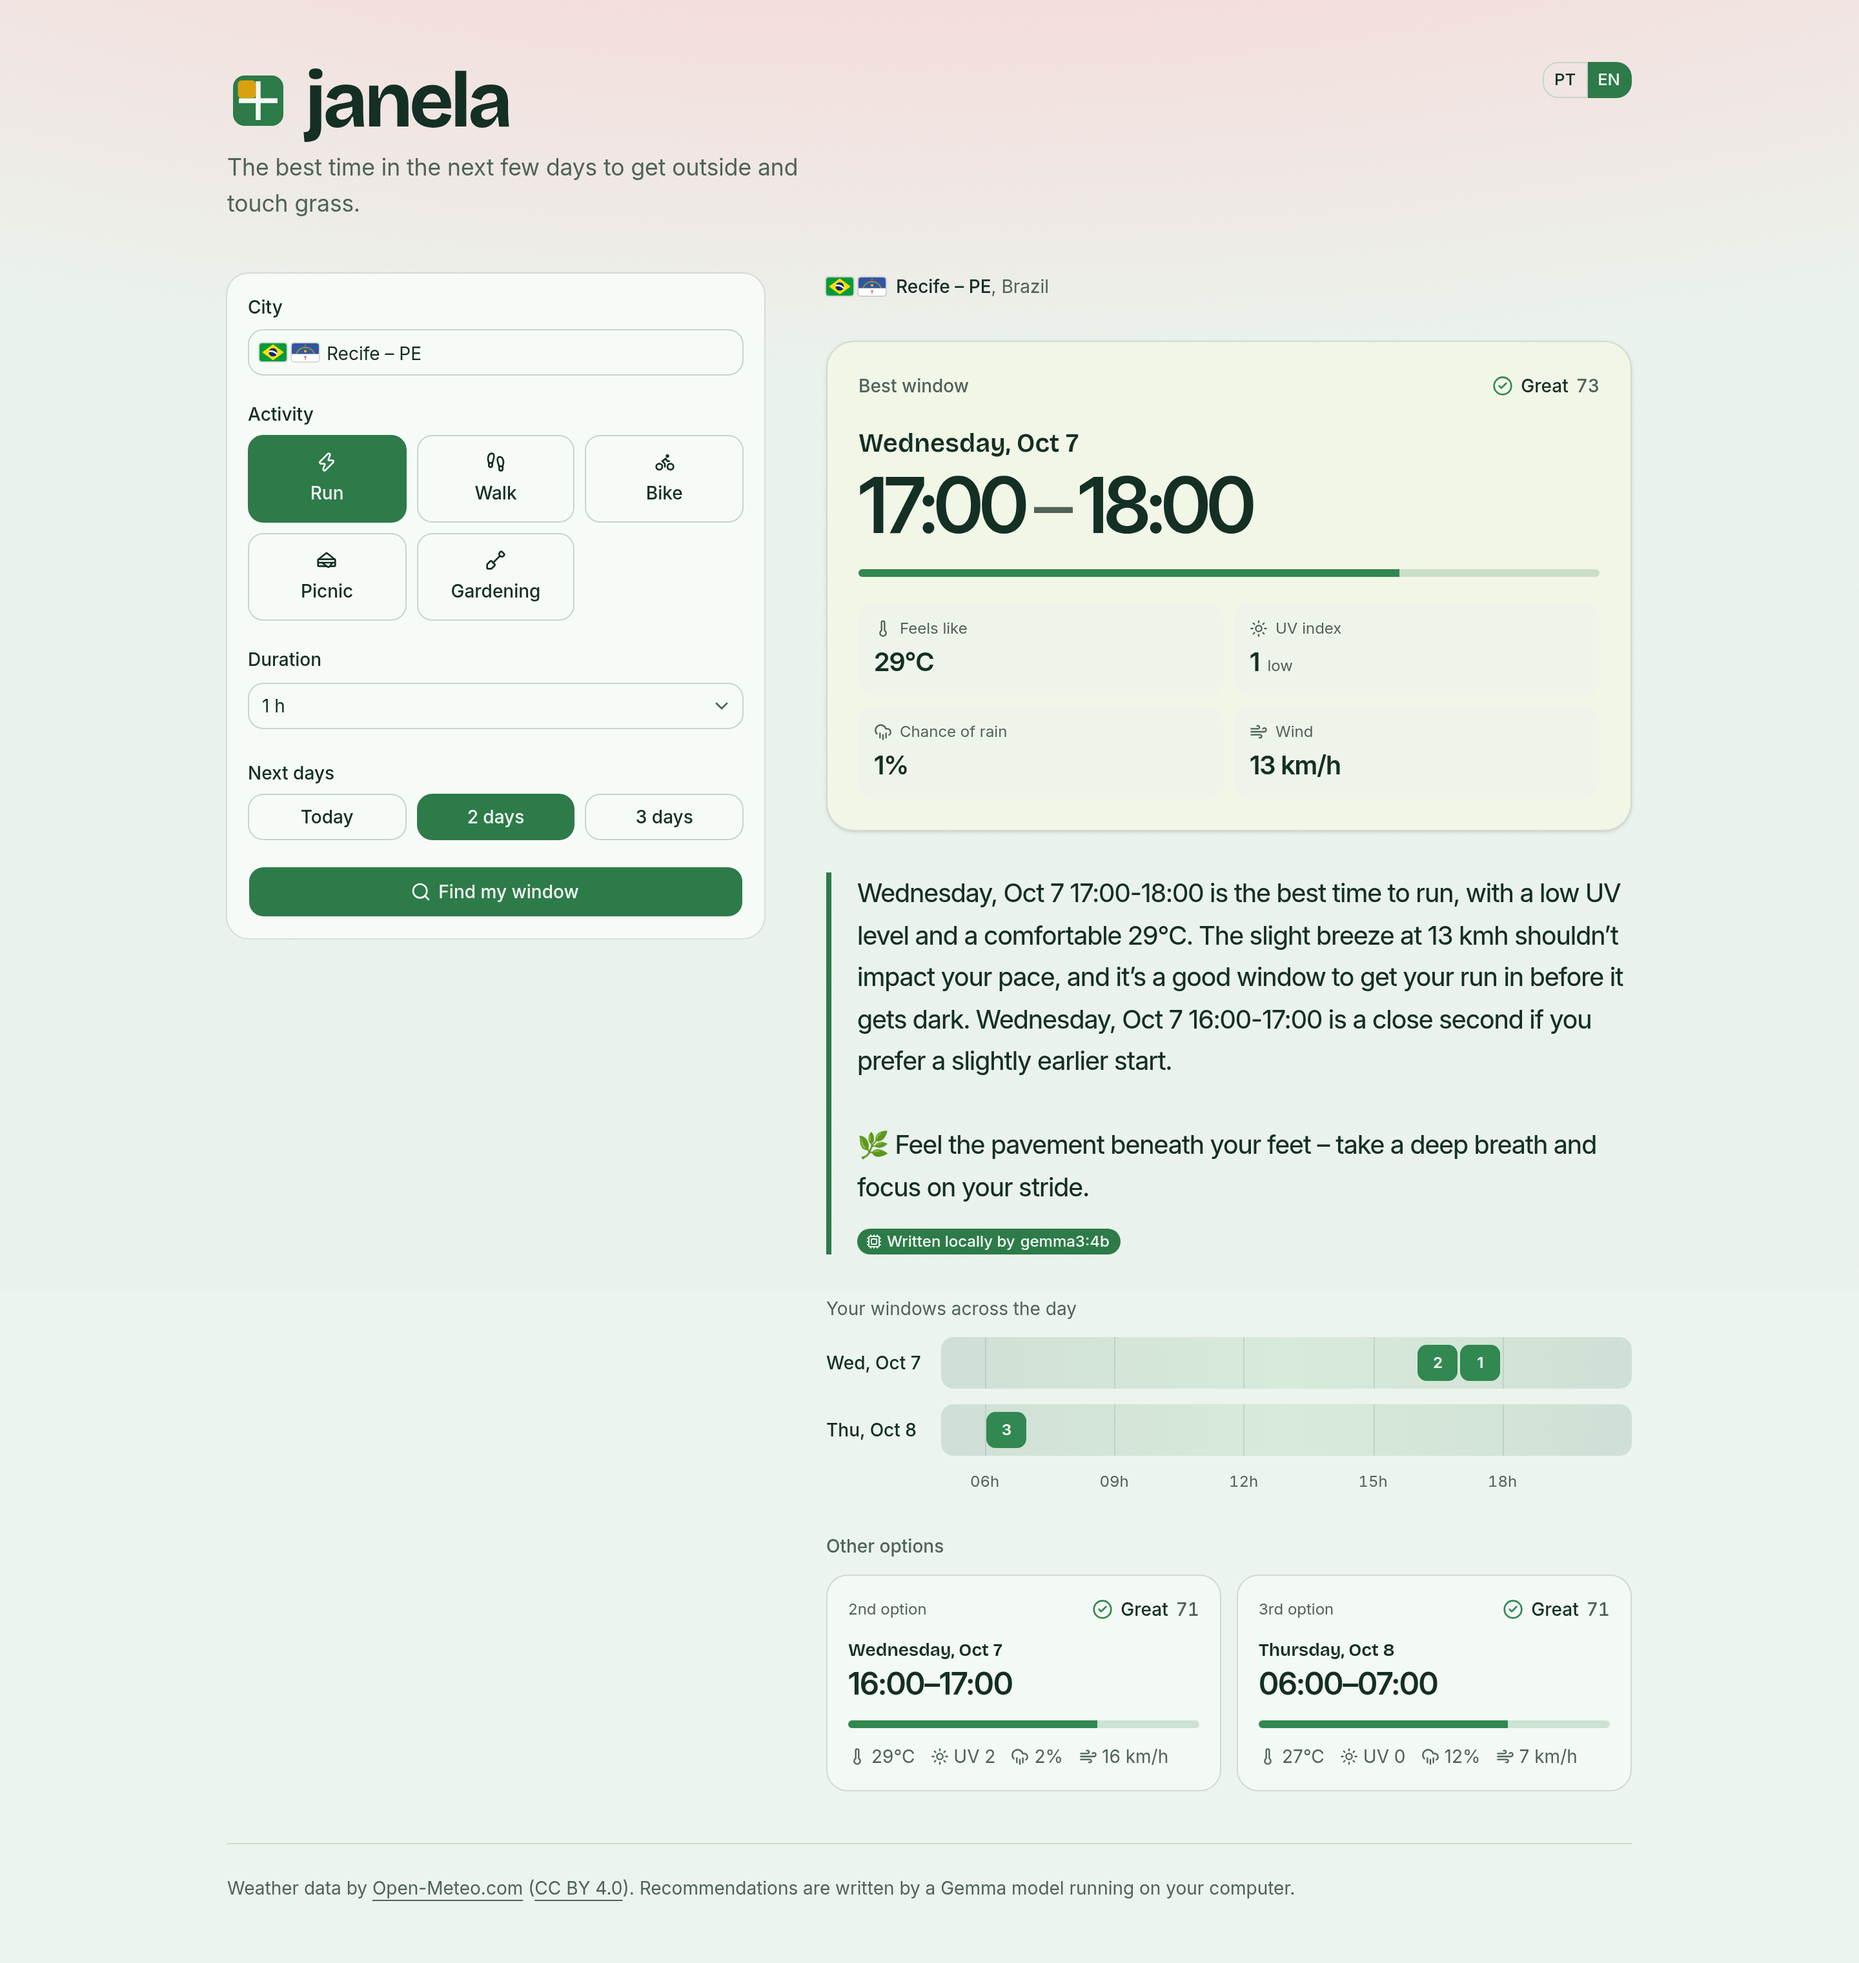
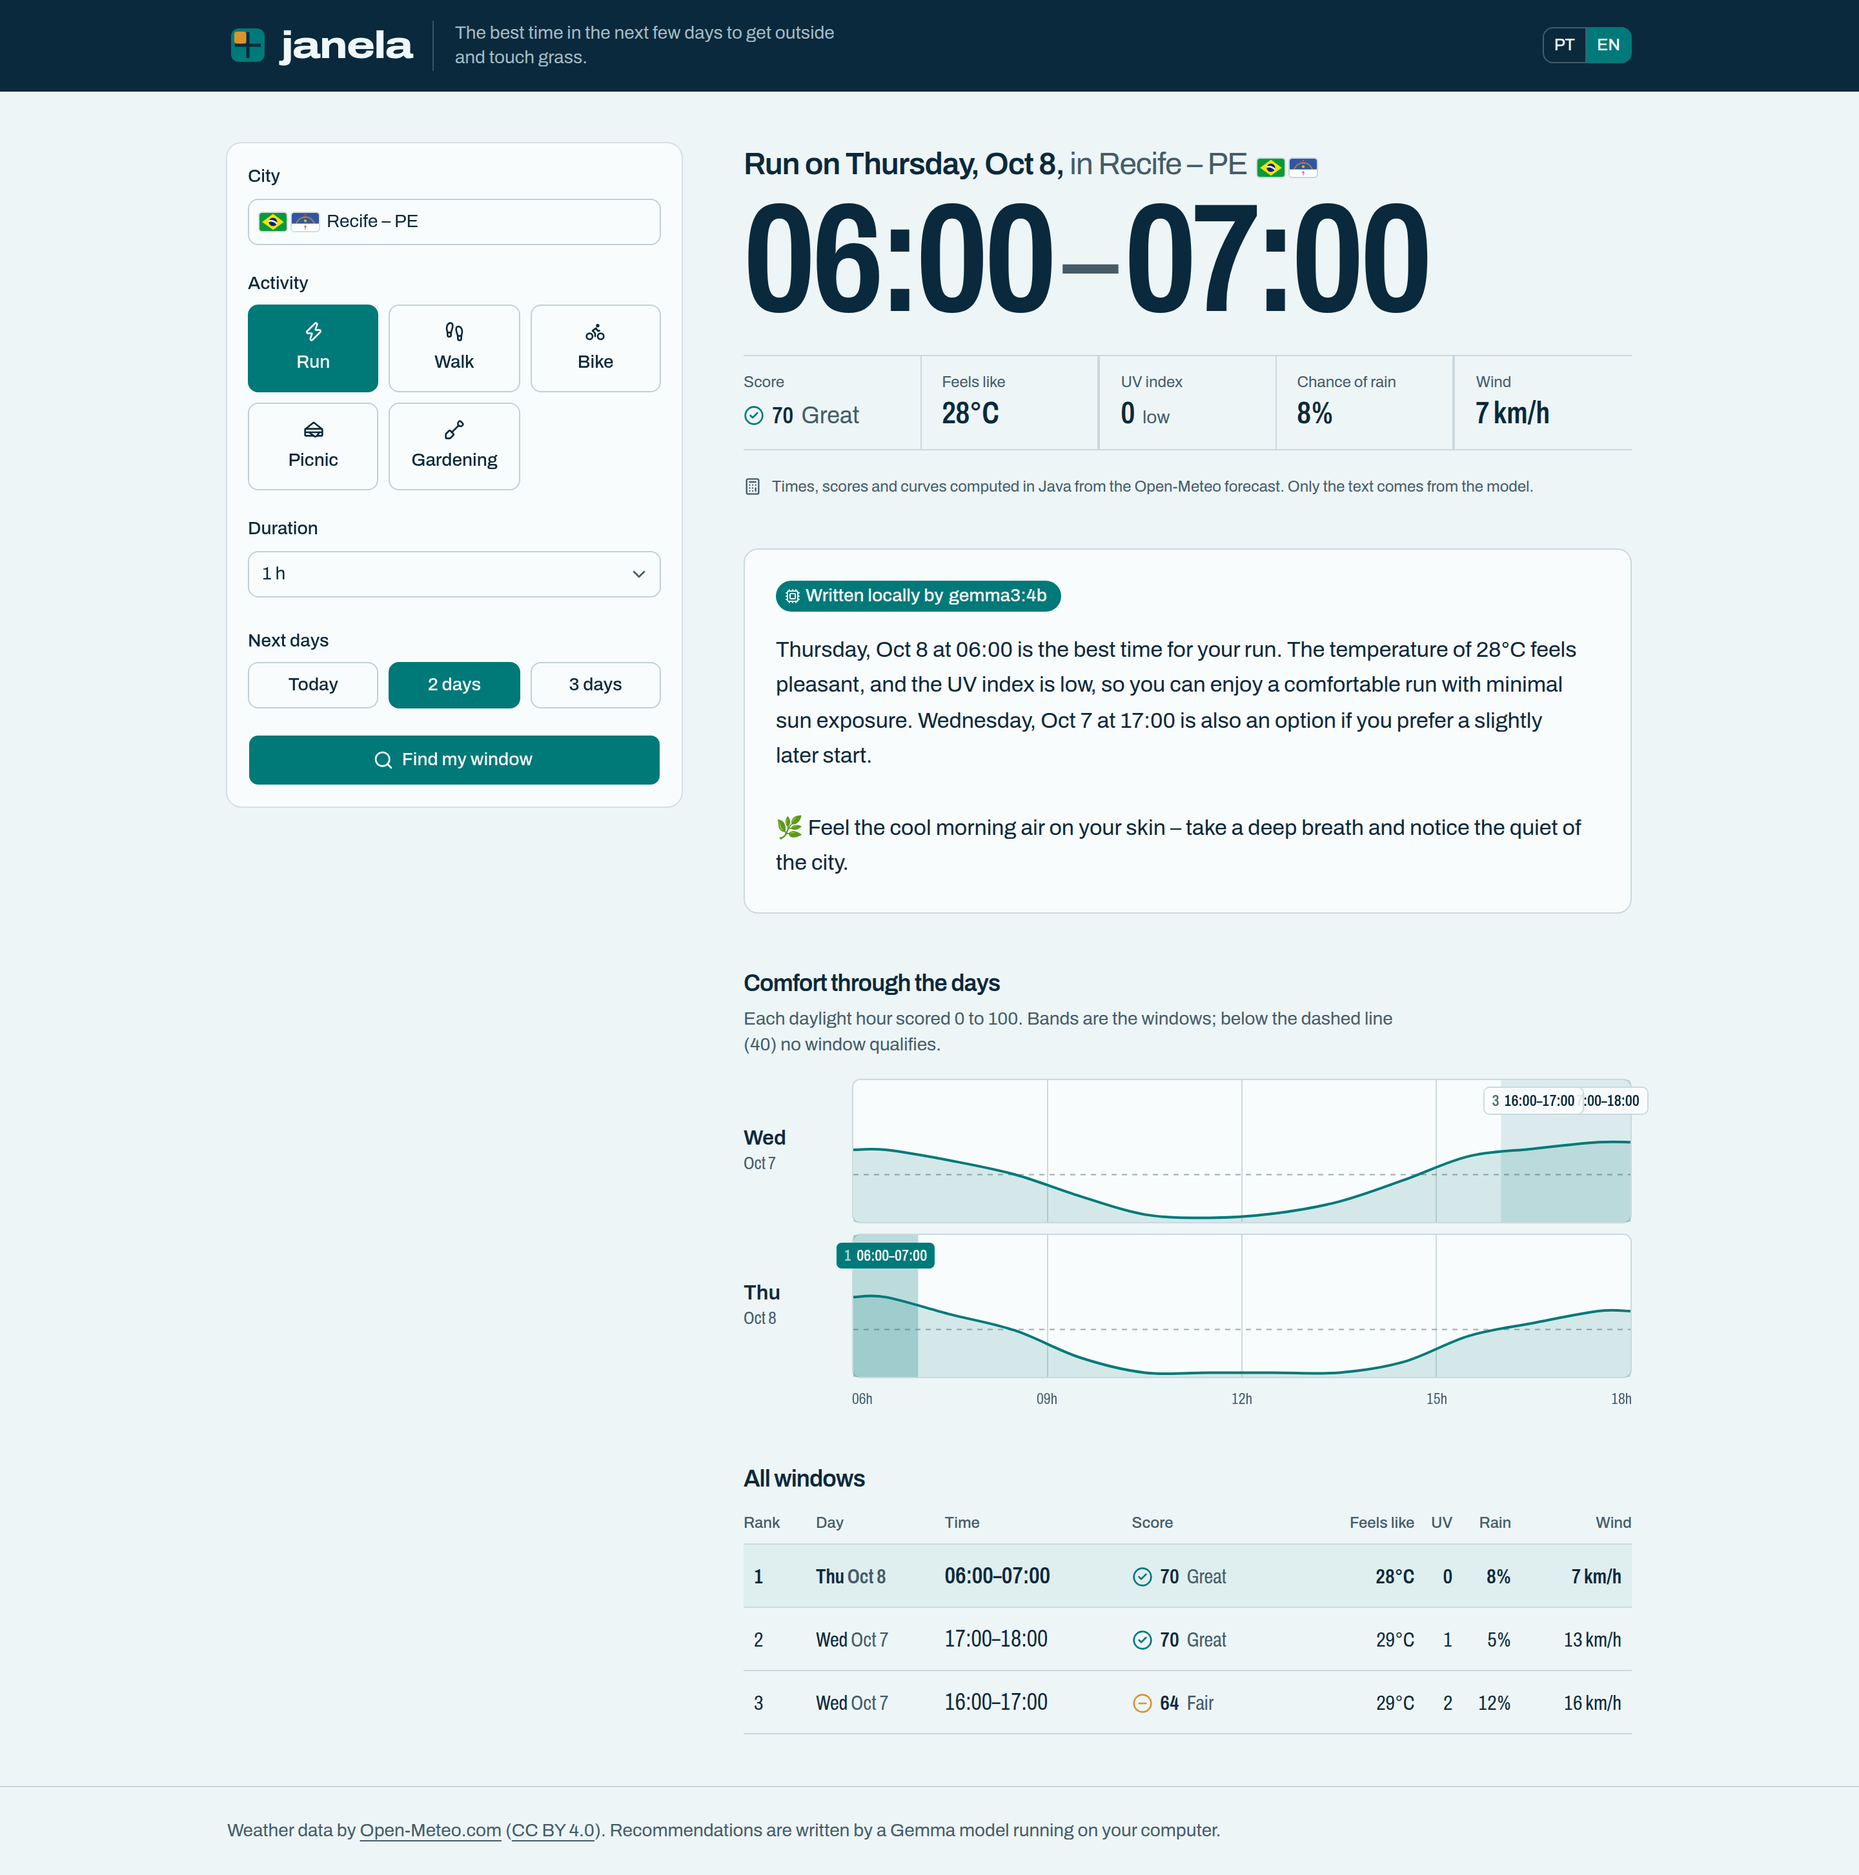
docs: update frontend guide and screenshots for the tide-table redesign

diff --git a/frontend/README.md b/frontend/README.md
@@ -31,8 +31,7 @@ module).
 |--------|------|
 | `lib/api.ts` | Types mirroring the backend (`WindowsResponse`, `SearchValues`, `City`, `Place`), `fetchWindows` and `fetchCities` against `/api/v1`, `ApiError` (status + `fields` from problem details) |
 | `lib/format.ts` | Day and time formatting from the API's local `yyyy-MM-ddTHH:mm` strings (never shifted to the browser's time zone) |
-| `lib/score.ts` | Score tiers, their `score-*` fill/track/icon classes, WHO UV categories |
-| `lib/sky.ts` | Dawn / day / dusk for a window's start — sets `<html data-sky>`, which tints the page's sky |
+| `lib/score.ts` | Score tiers and their colour classes, WHO UV categories, when UV and rain deserve a warning |
 | `lib/place.ts` | "Itobi – SP" labels, Brazilian state codes, flag URLs (country flags lazy-loaded from `country-flag-icons`, state flags in `public/flags/br`) |
 | `lib/i18n.ts` | All interface copy in `pt` and `en`; the narrative's language comes from the backend |
 | `I18nProvider` / `useI18n()` | The current `lang` and its copy `t`, for any component — no `t`/`lang` props |
@@ -45,13 +44,13 @@ module).
 |-----------|------|
 | `SearchForm` | Form state (city text, picked place, activity, duration, days), client-side validation, field problems turned into copy; calls `onSearch` |
 | `CityCombobox` | City field with debounced suggestions (`["cities", term, lang]` query); picking one pins its id |
-| `Results` | Chooses the state to show: loading, error, empty, no windows, or results — in the order answer, why, context, alternatives |
-| `BestWindow` | The answer: day, the time as the page's one hero number, score, and four `StatTile`s in a `dl` |
-| `Narrative` | The model's recommendation and its "written by Gemma / template" badge |
-| `DayStrip` | Visual band of daylight hours with the windows cut out — decorative, `aria-hidden` |
-| `Alternatives` | The runner-up windows as an ordered list of quieter cards |
-| `ScoreBadge` / `ScoreMeter` | A score as status (icon + word + number, never colour alone) and as a meter whose track is a lighter step of its fill |
-| `StatTile` | One labelled weather number (`dt`/`dd`), with an optional qualifier such as the UV category |
+| `Results` | Chooses the state: loading, error, empty (an example tide), no windows, or results — answer, why, each day's comfort, every option |
+| `Answer` | The answer as one heading: activity, day and place, then the time at high-water size; one timetable row of readings and the "computed in Java" line |
+| `Narrative` | The model's recommendation under its byline badge (Gemma, or the offline template) |
+| `TideChart` | The signature: each day's hourly comfort as a tide curve, windows as labelled high-tide bands, the 40 cut-off dashed; hover/tap reads an hour |
+| `WindowsTable` | Every window as a timetable (`table` from `sm`, stacked list on phones) |
+| `ScoreBadge` | A score as status: icon, number and word — never colour alone |
+| `UvWarning` / `RainWarning` | Sun-amber and storm-violet icons with labels for WHO-high UV and rain ≥ 40 % |
 | `PlaceFlags` | Country and state flags next to a place name (decorative) |
 
 ## State
@@ -67,15 +66,17 @@ module).
 
 - **shadcn first.** Compose existing components (`Field`, `ToggleGroup`, `Empty`, `Alert`, `Badge`, `Skeleton`)
   before writing markup. Base UI uses `render`, not `asChild`; toggle-group values are string arrays.
+- **Design system.** The visual world (tide table) is recorded in [`../DESIGN.md`](../DESIGN.md); product truth in
+  [`../PRODUCT.md`](../PRODUCT.md). Read them before visual work.
 - **Tokens, not colors.** Use semantic classes (`bg-primary`, `text-muted-foreground`) and the Janela tokens in
-  `src/index.css`: `score-high`, `score-mid`, `score-low`, `night`. Dark mode comes from the `.dark` tokens — no
+  `src/index.css`: `shell`, `tide`, `sun`, `storm`, `score-high|mid|low`. Dark mode comes from the `.dark` tokens — no
   `dark:` color overrides.
 - **Spacing** with `flex`/`grid` + `gap-*`, never `space-y-*`. Equal sizes with `size-*`.
-- **Type:** Inter Variable for text (optical sizing on), Bricolage Grotesque (`font-heading`) for the wordmark
-  and window titles only. Times use `tabular-nums`.
+- **Type:** Archivo Variable everywhere; `font-condensed` for times and numbers, `font-wide` for the wordmark.
+  Columns of numbers use `tabular-nums`.
 - **Copy** goes in `lib/i18n.ts` for both languages, in sentence case. Errors say what happened and what to do.
-- **Motion:** windows "open" in the day strip, and the sky eases to its new colour; nothing else moves.
-  Both respect `prefers-reduced-motion`.
+- **Motion:** one authored moment — each day's tide draws in and its windows fill when results land; nothing
+  else moves. It is off under `prefers-reduced-motion`.
 - **Layout:** one column on phones and tablets; from `lg` the form is a sticky sidebar and results take the
   rest. Check 390, 820 and 1440 px.
 
@@ -87,7 +88,8 @@ module).
   errors announce themselves (`Alert` and `FieldError` are `role="alert"`).
 - Every control has a visible label (`FieldLabel` or `FieldLegend`); errors use `data-invalid` + `aria-invalid`
   and focus moves to the city field when it is the problem.
-- Decorative visuals (`DayStrip`, flags, icons) are `aria-hidden`; the same information is in text nearby.
+- Each tide row is `role="img"` with a one-line summary; the timetable carries the same data. Flags and icons
+  are `aria-hidden` unless they are the only carrier (warnings have `aria-label`).
 - Brand and model names carry `translate="no"`.
 
 ## Adding a component
